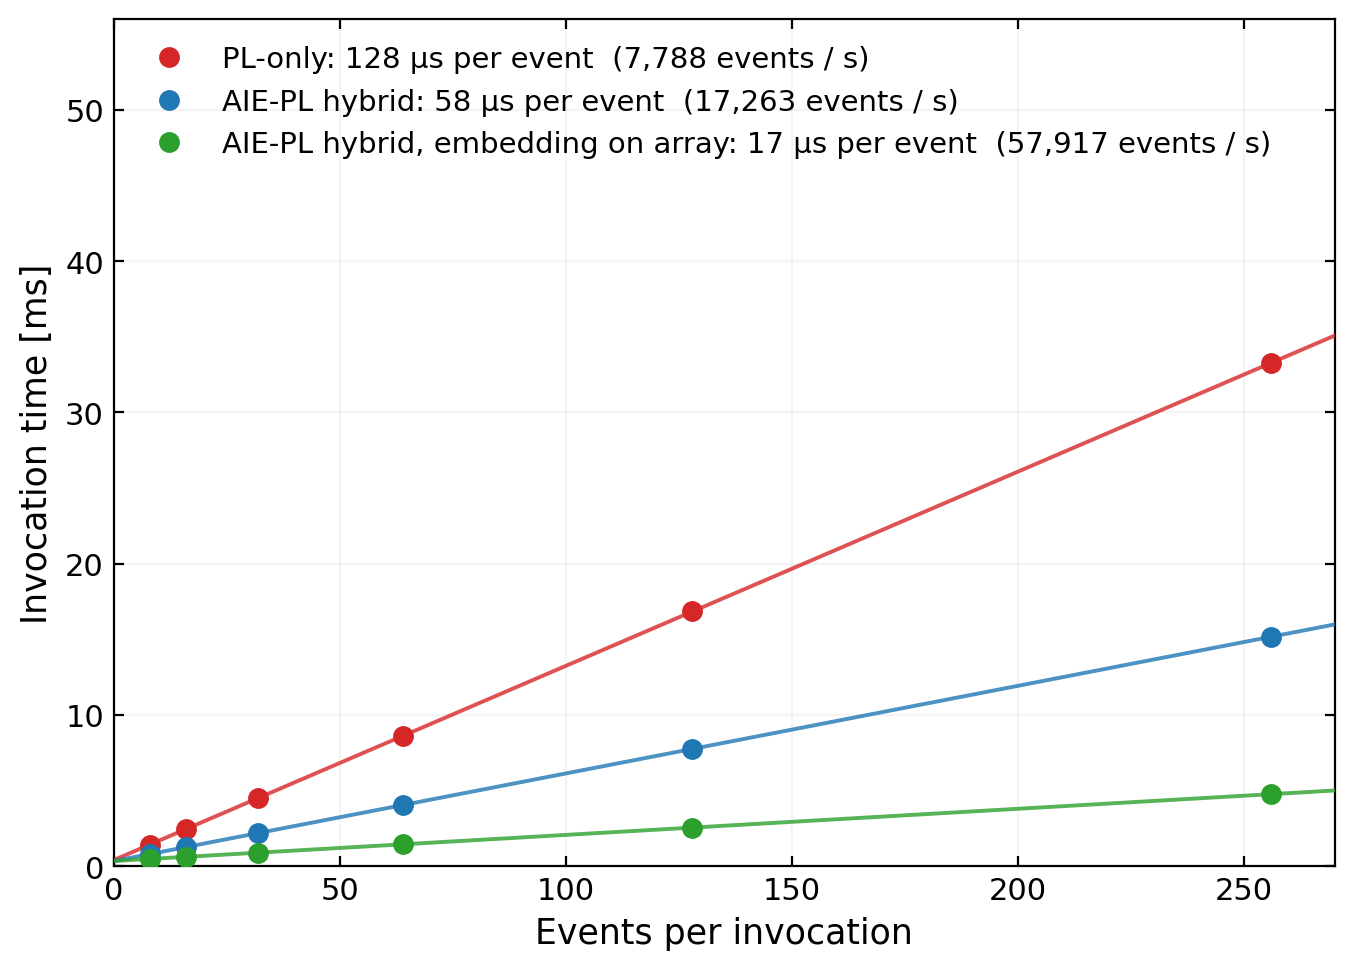
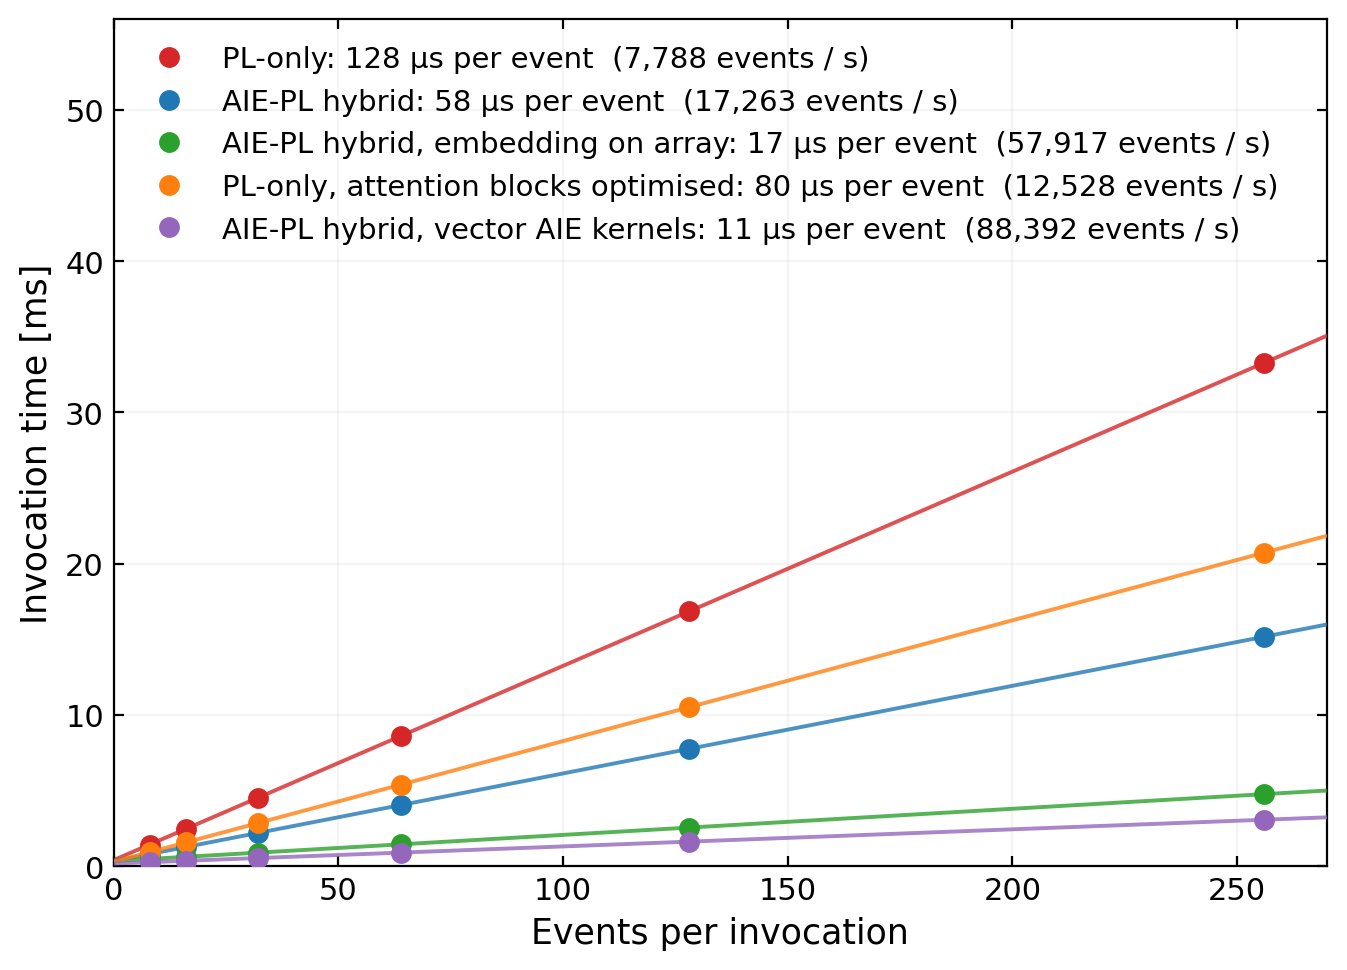
fig: batch sweep with the optimised fabric (80 us) and vector-kernel hybrid (11 us) series
Series read from the sweep files in figs/. The stage-time panels are unchanged.

diff --git a/scripts/make_latency_and_stage_charts.py b/scripts/make_latency_and_stage_charts.py
@@ -34,7 +34,24 @@ SWEEP = {
     "AIE-PL hybrid, embedding on array": [(1,0.35504),(2,0.37636),(4,0.41030),(8,0.47965),(16,0.61606),
                       (32,0.89252),(64,1.44643),(128,2.54917),(256,4.76108)],
 }
-COL = {"PL-only": PL_C, "AIE-PL hybrid": AIE_C, "AIE-PL hybrid, embedding on array": "#2ca02c"}
+COL = {"PL-only": PL_C, "AIE-PL hybrid": AIE_C, "AIE-PL hybrid, embedding on array": "#2ca02c",
+       "PL-only, attention blocks optimised": "#ff7f0e", "AIE-PL hybrid, vector AIE kernels": "#9467bd"}
+
+# The two 2026-09-11/12 latency builds, read from their sweep files (figs/):
+#   PL-only t2a: softmax pipelined, heads batched, narrow multipliers, fast
+#   reshape (79.8 us/event, one event 363 us; 78.125 MHz, two layers).
+#   Hybrid smvec: every AI Engine kernel moves its windows 16 lanes at a time and
+#   the object head post uses an 8-lane float softmax (11.3 us/event, one event
+#   181 us, 160 us with direct-register launch). AUC 0.9825 / 0.9817.
+def _csv(path, kernel):
+    pts = []
+    for l in open(path):
+        if l.startswith(kernel + ","):
+            q = l.split(","); pts.append((int(q[1]), float(q[4])))   # (N, median ms)
+    return pts
+_F = "/home/snehadri/repos/aie-unsupervised-search/figs/"
+SWEEP["PL-only, attention blocks optimised"] = _csv(_F + "latency_sweep_pl_t2a.csv", "pl_stream_top")
+SWEEP["AIE-PL hybrid, vector AIE kernels"] = _csv(_F + "latency_sweep_hybrid_smvec.csv", "aie_stream_top")
 NMIN = 8
 
 # ---- (b),(c) per-stage costs, SAME rows in both panels ------------------------
